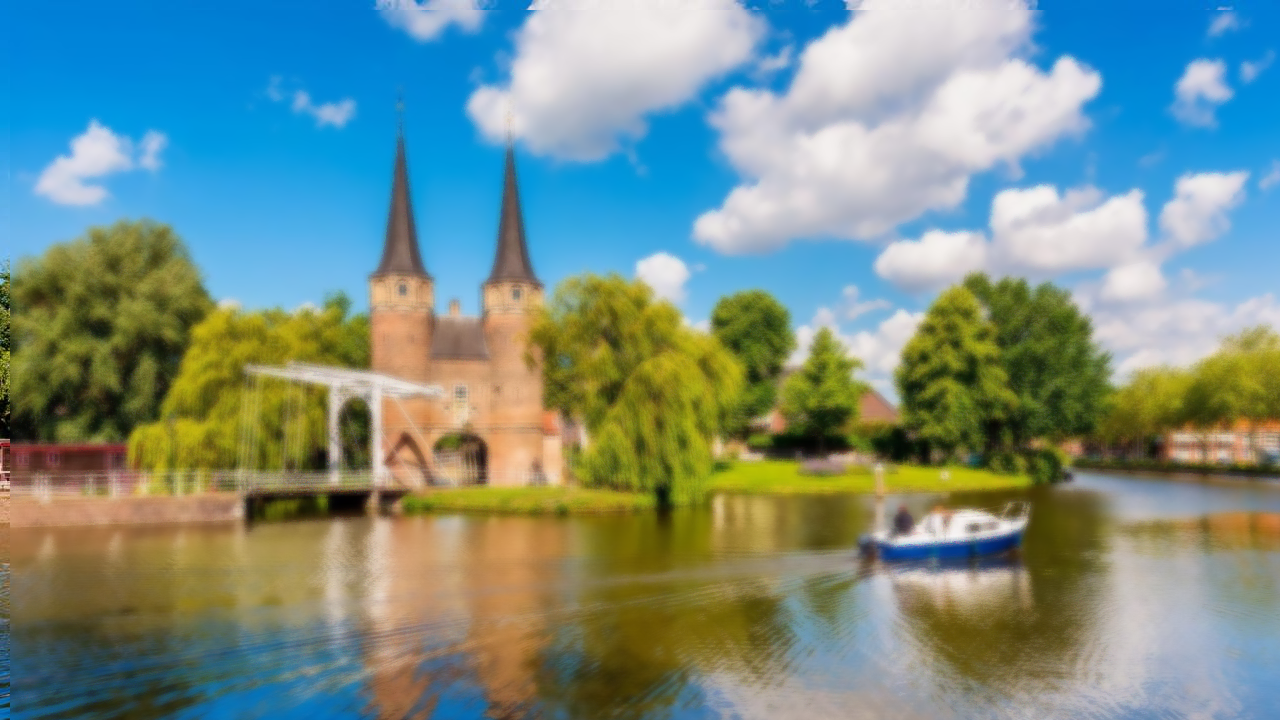
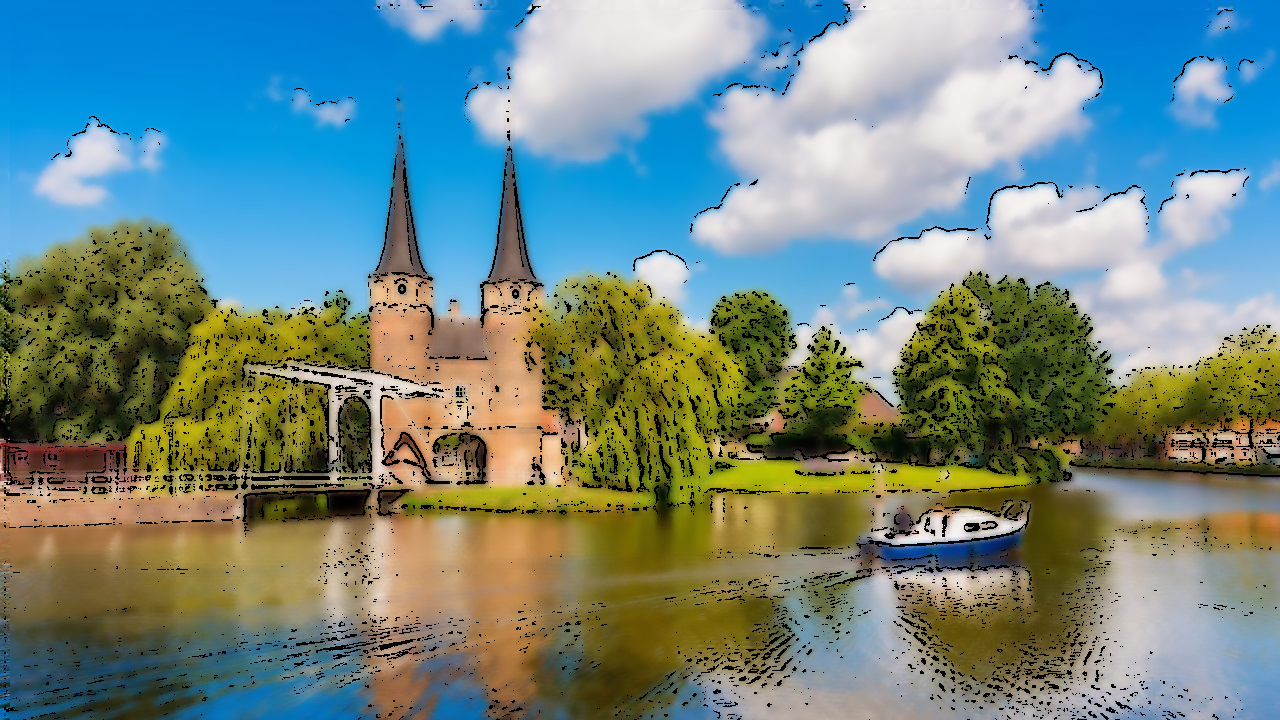
Wrap mod op. and add bind storage pragma

diff --git a/hls/04_bilateral_filter_hls.cpp b/hls/04_bilateral_filter_hls.cpp
@@ -58,6 +58,7 @@ void bilateral_filter(pixel_stream &src, pixel_stream &dst)
     // LINE BUFFER: Stores D-1 (4) rows of RGB pixels
     static rgb_pixel line_buffer[D - 1][WIDTH];
     #pragma HLS ARRAY_PARTITION variable=line_buffer dim=1 complete // Partition row index (D-1) for parallel read
+    #pragma HLS BIND_STORAGE variable=line_buffer type=ram_2p impl=bram // FORCE the implementation to BRAM (RAM_2P or RAM_S2P)
     #pragma HLS DEPENDENCE variable=line_buffer inter false // Optimize access pattern
 
     // WINDOW BUFFER: The active DxD (5x5) pixel kernel
@@ -92,18 +93,26 @@ void bilateral_filter(pixel_stream &src, pixel_stream &dst)
 
     // Fill Rightmost Column (Update)
     if (x < WIDTH) {
-        // 1. Fill top D-1 pixels from line buffer (circular logic)
+        // 1) Read each bank with a constant index (HLS can map banks to RAM cleanly)
+        rgb_pixel col_bank[D - 1];
+        #pragma HLS ARRAY_PARTITION variable=col_bank complete dim=0
+        for (int r = 0; r < D - 1; r++) {
+            #pragma HLS UNROLL
+            col_bank[r] = line_buffer[r][x];
+        }
+
+        // 2) Rotate into the window using line_idx (rotation happens in regs now)
         for (int i = 0; i < D - 1; i++) {
             #pragma HLS UNROLL
-            // Calculate cyclic index to read chronologically correct rows
-            uint8_t row_offset = (line_idx + i) % (D - 1); 
-            window_buffer[i][D - 1] = line_buffer[row_offset][x];
+            int idx = line_idx + i;
+            if (idx >= (D - 1)) idx -= (D - 1);   // cheap wrap instead of %
+            window_buffer[i][D - 1] = col_bank[idx];
         }
-        
-        // 2. Bottom pixel is the current incoming pixel
+
+        // 3) Bottom pixel is current input
         window_buffer[D - 1][D - 1] = new_pixel;
 
-        // 3. Update Line Buffer with new pixel (overwriting oldest line)
+        // 4) Update line buffer (one bank write)
         line_buffer[line_idx][x] = new_pixel;
     }
 
@@ -198,7 +207,7 @@ void bilateral_filter(pixel_stream &src, pixel_stream &dst)
 }
 
 // Optional standalone stream wrapper for testing this stage only
-void stream(pixel_stream &src, pixel_stream &dst, int frame)
+void bilateral_filter_stream(pixel_stream &src, pixel_stream &dst, int frame)
 {
     (void)frame;
     bilateral_filter(src, dst);

diff --git a/hls/adaptive_threshold.cpp b/hls/adaptive_threshold.cpp
@@ -17,7 +17,8 @@ void adaptive_threshold(pixel_stream &src, pixel_stream &dst)
     // A. Line Buffer: Stores K-1 rows of pixels
     //    Partitioned to allow reading a full column in one cycle.
     static uint8_t line_buffer[K_SIZE - 1][WIDTH];
-    #pragma HLS ARRAY_PARTITION variable=line_buffer dim=1 complete
+    #pragma HLS ARRAY_PARTITION variable=line_buffer dim=1 complete // Partition row index (K_SIZE-1) for parallel read
+    #pragma HLS BIND_STORAGE variable=line_buffer type=ram_2p impl=bram // FORCE the implementation to BRAM (RAM_2P or RAM_S2P)
     #pragma HLS DEPENDENCE variable=line_buffer inter false
 
     // B. Window Buffer: The active KxK pixel kernel
@@ -80,18 +81,21 @@ void adaptive_threshold(pixel_stream &src, pixel_stream &dst)
         // We read the *old* pixels to form the column
         
         // 1. Fill top K-1 pixels of the new column from line buffer
+        uint8_t col_bank[K_SIZE - 1];
+        #pragma HLS ARRAY_PARTITION variable=col_bank complete dim=0
+        for (int r = 0; r < K_SIZE - 1; r++) {
+            #pragma HLS UNROLL
+            col_bank[r] = line_buffer[r][x];
+        }
+
         for (int i = 0; i < K_SIZE - 1; i++) {
             #pragma HLS UNROLL
-            // Calculate cyclic index logic to read chronologically correct rows
-            uint8_t row_offset = (line_idx + i) % (K_SIZE - 1);
-            uint8_t val = line_buffer[row_offset][x];
-            window_buffer[i][K_SIZE - 1] = val;
+            int idx = line_idx + i;
+            if (idx >= (K_SIZE - 1)) idx -= (K_SIZE - 1);
+            window_buffer[i][K_SIZE - 1] = col_bank[idx];
         }
-        
-        // 2. Bottom pixel is the current incoming pixel
-        window_buffer[K_SIZE - 1][K_SIZE - 1] = new_pixel;
 
-        // 3. Update Line Buffer with new pixel (overwriting oldest line)
+        window_buffer[K_SIZE - 1][K_SIZE - 1] = new_pixel;
         line_buffer[line_idx][x] = new_pixel;
     }
 

diff --git a/hls/median_blur.cpp b/hls/median_blur.cpp
@@ -42,6 +42,7 @@ void median_blur(pixel_stream &src, pixel_stream &dst){
     // Line Buffer: K-1 rows
     static uint8_t line_buffer[K_SIZE - 1][WIDTH];
     #pragma HLS ARRAY_PARTITION variable=line_buffer dim=1 complete
+    #pragma HLS BIND_STORAGE variable=line_buffer type=ram_2p impl=bram // FORCE the implementation to BRAM (RAM_2P or RAM_S2P)
     #pragma HLS DEPENDENCE variable=line_buffer inter false
 
     // Window Buffer: KxK pixel 
@@ -78,18 +79,22 @@ void median_blur(pixel_stream &src, pixel_stream &dst){
     
     
     if (x < WIDTH) {
-        // Fill the rightmost column of the window
+        uint8_t col_bank[K_SIZE - 1];
+        #pragma HLS ARRAY_PARTITION variable=col_bank complete dim=0
+
+        for (int r = 0; r < K_SIZE - 1; r++) {
+            #pragma HLS UNROLL
+            col_bank[r] = line_buffer[r][x];
+        }
+
         for (int i = 0; i < K_SIZE - 1; i++) {
             #pragma HLS UNROLL
-
-            uint8_t index = (cnt + i) % (K_SIZE - 1);
-            window_buffer[i][K_SIZE - 1] = line_buffer[index][x];
+            int idx = cnt + i;
+            if (idx >= (K_SIZE - 1)) idx -= (K_SIZE - 1);
+            window_buffer[i][K_SIZE - 1] = col_bank[idx];
         }
-        
-        // Bottom pixel is the current incoming pixel
-        window_buffer[K_SIZE - 1][K_SIZE - 1] = new_pixel;
 
-        // Store new pixel in line buffer
+        window_buffer[K_SIZE - 1][K_SIZE - 1] = new_pixel;
         line_buffer[cnt][x] = new_pixel;
     }
 

diff --git a/hls/adaptive_threshold.h b/hls/adaptive_threshold.h
@@ -25,7 +25,7 @@
 #define HEIGHT 720
 
 // Adaptive Threshold Parameters
-#define K_SIZE 7
+#define K_SIZE 5
 #define K_PAD (K_SIZE / 2)
 #define K_AREA (K_SIZE * K_SIZE)
 #define C_CONST 7
